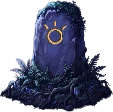
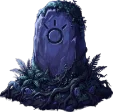
Shrines use the lit and unlit paintings instead of darkening one image
Converted the approved shrine-lit art for all three worlds, with the same crop as the unlit
shrine so the two line up; touching a shrine swaps to the lit painting.

Claude-Session: https://claude.ai/code/session_01KgNHUpoM1DrAsdxQpQwvZT

diff --git a/game.js b/game.js
@@ -916,7 +916,7 @@ class Room extends Phaser.Scene {
     Dialogue.preload(this);
     for (const [key, path] of [
       ['amulet', 'world1/amulet'], ['ghost', 'world1/ghost'], ['old-tree', 'world3/old-tree'],
-      ...[1, 2, 3].flatMap((n) => [[`amulet-rune${n}`, `world1/amulet-rune${n}`], [`shrine${n}`, `world${n}/shrine`]]),
+      ...[1, 2, 3].flatMap((n) => [[`amulet-rune${n}`, `world1/amulet-rune${n}`], [`shrine${n}`, `world${n}/shrine`], [`shrineLit${n}`, `world${n}/shrine-lit`]]),
     ]) if (!this.textures.exists(key)) this.load.image(key, `assets/${path}.webp`);
     if (!this.textures.exists('heroSheet')) {
       this.load.image('heroSheet', 'assets/hero/sheet.webp'); // 8 frames: run 0-5, jump 6, fall 7
@@ -1118,7 +1118,7 @@ class Room extends Phaser.Scene {
               sh.rune = this.add.circle(x + T / 2, y + T - 18, 3, 0xe8b44a).setAlpha(0.35).setDepth(3);
               sh.spawn = { x: x + T / 2, y: y + T - 15 };
               this.storyPainting(sh, `shrine${world}`, 44, 14);
-              if (sh.img) { sh.setStrokeStyle(0); sh.rune.setVisible(false); sh.img.setTint(0x626868).setAlpha(0.65); }
+              if (sh.img) { sh.setStrokeStyle(0); sh.rune.setVisible(false); sh.world = world; }
               this.shrines.push(sh);
               break;
             }
@@ -1288,7 +1288,8 @@ class Room extends Phaser.Scene {
     }
     for (const sh of this.shrines) {
       const active = this.start === sh.spawn;
-      sh.img?.setTint(active ? 0xffffff : 0x626868).setAlpha(active ? 1 : 0.65);
+      const lit = `shrineLit${sh.world}`; // lit and unlit are two paintings of the same stone
+      if (sh.img) sh.img.setTexture(active && this.textures.exists(lit) ? lit : `shrine${sh.world}`);
       if (active) g.fillStyle(0xffd774, 0.12 + Math.sin(t * 3) * 0.04).fillCircle(sh.x, sh.y - 4, 24);
     }
     const rune = stats.treePower ? 3 : stats.mothFinished ? 2 : 1;
